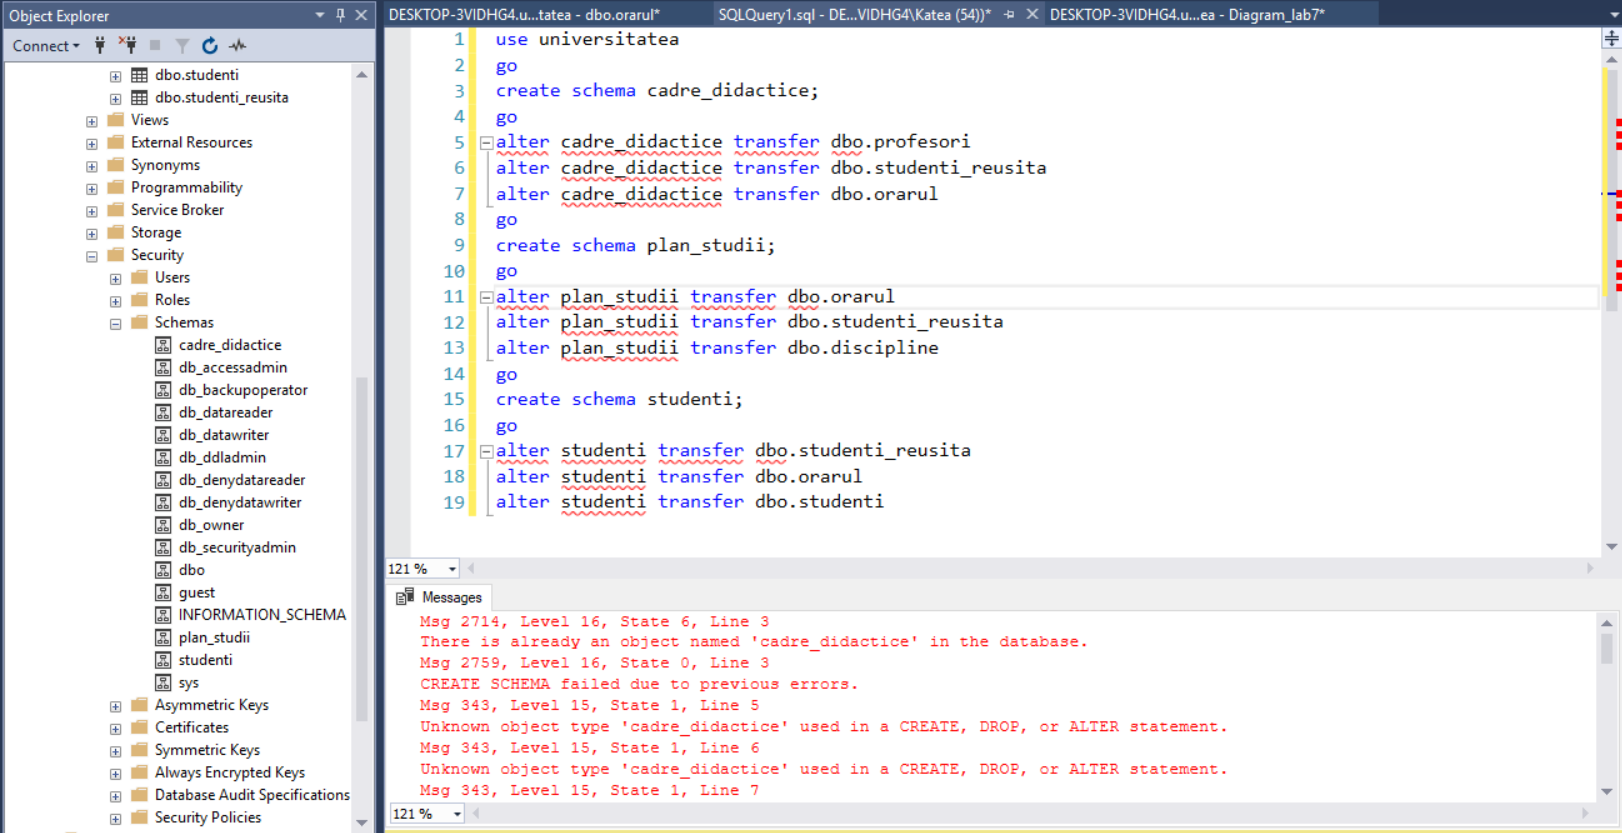
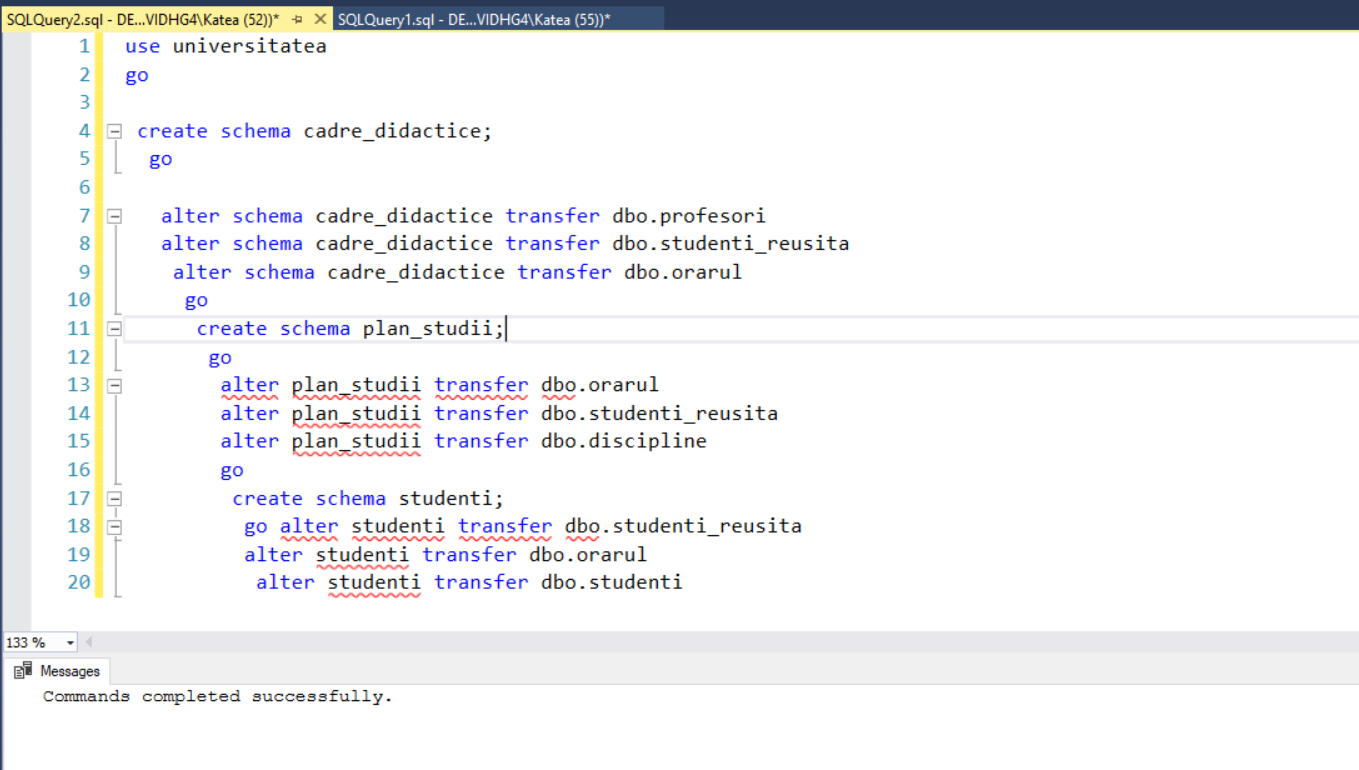
Laboratory-work-7

diff --git a/Laboratory-work-7/README.md b/Laboratory-work-7/README.md
@@ -86,25 +86,26 @@ create nonclustered index NIX_task6
 
 6. Creati, in baza de date universitatea, trei scheme noi: *cadre_didactice, plan_studii* si *studenti*. Transferati tabelul profesori din schema dbo in schema cadre didactice, tinind cont de dependentele definite asupra tabelului mentionat. In acelasi mod sa se trateze tabelele orarul,discipline care apartin schemei plan_studii și tabelele studenți, studenti_reusita, care apartin schemei studenti. Se scrie instructiunile SQL respective.
 
-use universitatea
+use universitatea 
 go
-create schema cadre_didactice;
-go
-alter cadre_didactice transfer dbo.profesori
-alter cadre_didactice transfer dbo.studenti_reusita
-alter cadre_didactice transfer dbo.orarul
-go
-create schema plan_studii;
-go
-alter plan_studii transfer dbo.orarul
-alter plan_studii transfer dbo.studenti_reusita
-alter plan_studii transfer dbo.discipline
-go
-create schema studenti;
-go
-alter studenti transfer dbo.studenti_reusita
-alter studenti transfer dbo.orarul
-alter studenti transfer dbo.studenti
+
+ create schema cadre_didactice;
+  go
+
+   alter schema cadre_didactice transfer dbo.profesori 
+   alter schema cadre_didactice transfer dbo.studenti_reusita
+    alter schema cadre_didactice transfer dbo.orarul
+	 go
+	  create schema plan_studii;
+	   go
+	    alter plan_studii transfer dbo.orarul 
+		alter plan_studii transfer dbo.studenti_reusita 
+		alter plan_studii transfer dbo.discipline 
+		go
+		 create schema studenti;
+		  go alter studenti transfer dbo.studenti_reusita 
+		  alter studenti transfer dbo.orarul
+		   alter studenti transfer dbo.studenti
 
 
 ![Nr6](https://github.com/KatyaFAF172/BD/blob/master/Laboratory-work-7/image/Nr6.PNG)
